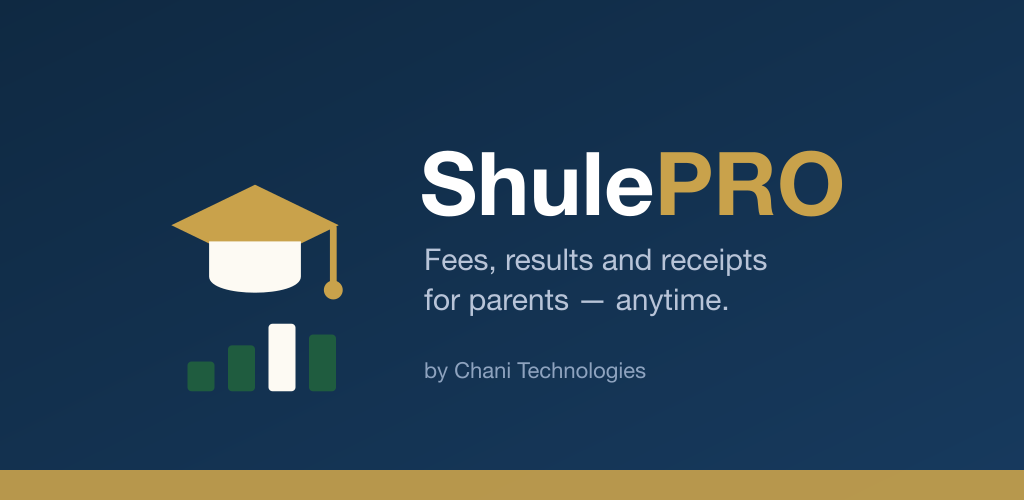
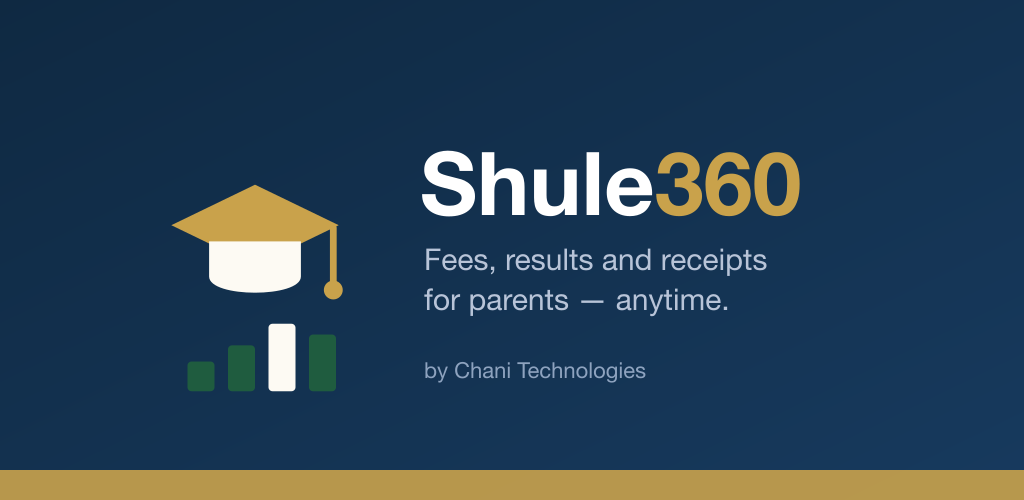
Rebuild mobile app as Shule360 v1.1 (2), regenerate feature graphic
Feature graphic wordmark updated (was baked as an image, couldn't be
covered by the text-only rename commit). Signed AAB rebuilt with the
new app_name/title already in place from the previous commit. Bumped
versionCode 1->2 since Play requires a higher version for any re-upload,
even a rename-only one. Listing doc now documents this as a follow-up
release to the existing Alpha track rather than a fresh submission.

Changed region(s): [[0.625, 0.3, 0.8438, 0.45]]

diff --git a/mobile/PLAY_STORE_LISTING.md b/mobile/PLAY_STORE_LISTING.md
@@ -1,4 +1,4 @@
-# ShulePRO — Google Play Store submission pack
+# Shule360 — Google Play Store submission pack
 
 Everything below is copy-paste ready for the Play Console.
 
@@ -8,7 +8,7 @@ Everything below is copy-paste ready for the Play Console.
 
 | Field | Value |
 |---|---|
-| App name (30 chars max) | `ShulePRO` |
+| App name (30 chars max) | `Shule360` |
 | Default language | English (United States) |
 | App or game | **App** |
 | Free or paid | **Free** |
@@ -33,9 +33,9 @@ School management in your pocket — for parents, teachers and school staff.
 ## Full description (4000 characters max)
 
 ```
-ShulePRO brings the whole school to your pocket — for parents and for school staff.
+Shule360 brings the whole school to your pocket — for parents and for school staff.
 
-ShulePRO is the mobile app for the ShulePRO school management system used by schools in Tanzania. Sign in with the account your school gave you, and you get the part of the system that belongs to your role.
+Shule360 is the mobile app for the Shule360 school management system used by schools in Tanzania. Sign in with the account your school gave you, and you get the part of the system that belongs to your role.
 
 FOR PARENTS AND GUARDIANS
 
@@ -64,9 +64,9 @@ Parents sign in with the phone number registered at their child's school, togeth
 
 FOR SCHOOLS
 
-If your school does not use ShulePRO yet and you would like a demonstration, contact Chani Technologies on +255 713 209 535 or info@chanitech.co.tz.
+If your school does not use Shule360 yet and you would like a demonstration, contact Chani Technologies on +255 713 209 535 or info@chanitech.co.tz.
 
-ShulePRO is a product of Chani Technologies, Dar es Salaam, Tanzania.
+Shule360 is a product of Chani Technologies, Dar es Salaam, Tanzania.
 www.chanitech.co.tz
 ```
 
@@ -171,17 +171,44 @@ Answer **No** to every question about violence, sexuality, profanity, drugs, gam
 
 ---
 
-## Release steps
+## Release steps (original submission — already done)
 
 1. **Create app** — Play Console → *Create app* → fill App details table above.
 2. **Store listing** — Main store listing → short + full description, upload icon, feature graphic, screenshots.
 3. **App content** — complete every item: privacy policy, app access, ads, content rating, target audience, data safety.
-4. **Closed testing** — Testing → Closed testing → Create new release → upload
-   `mobile/android/app/build/outputs/bundle/release/app-release.aab`.
-   - Release name: `1.0 (1)`
-   - Release notes: `First release of ShulePRO for parents — school fees, payment receipts and examination results.`
+4. **Closed testing** — Testing → Closed testing → Create new release → upload the AAB.
    - Create an email list of **at least 12 testers** and invite them; they must **opt in via the link and keep the app installed for 14 days**.
 5. After 14 days with 12+ opted-in testers → **Apply for production access** → Google reviews → publish to **Production**.
+
+---
+
+## Rename release: ShulePRO → Shule360 (v2 / 1.1)
+
+The app was renamed after submission to avoid a brand collision with an
+unrelated, already-operating competitor also using the name "ShulePro"
+(shulepro.com, Kenya-based, same market). The package ID
+(`tz.co.chanitech.shulepro`) is unchanged — only the display name.
+
+**Upload this update to the same Closed testing → Alpha track:**
+
+1. Testing → Closed testing → Alpha → **Create release**.
+2. Upload `mobile/android/app/build/outputs/bundle/release/app-release.aab`
+   (already rebuilt as versionCode 2 / 1.1 with the new name — or use
+   `~/Downloads/Shule360-release-v2.aab`).
+3. Release name: `1.1 (2)`
+4. Release notes:
+   `App renamed from ShulePRO to Shule360. No other changes — same login, same features.`
+5. **Save → Review release → Start rollout.** Your existing 12 opted-in
+   testers stay opted in; this does not reset the 14-day clock.
+6. **Also update the Main store listing** (separate from the release):
+   App name → `Shule360`; paste the updated short/full description from
+   this file; replace the feature graphic with the regenerated
+   `mobile/assets/feature-graphic.png` (also copied to `~/Downloads/`).
+7. **Re-take screenshots** after deploying the web-app changes to
+   production (`bash deploy.sh`) — the old screenshots show the
+   "ShulePRO" wordmark on the sign-in pages, which no longer matches.
+   Say "relaunch capture" or re-run
+   `node mobile/assets/shoot-portal-screenshots.js`.
 
 ---
 
@@ -190,8 +217,8 @@ Answer **No** to every question about violence, sexuality, profanity, drugs, gam
 Each upload needs a higher version. In `mobile/android/app/build.gradle`:
 
 ```gradle
-versionCode 2          // increment by 1 every upload
-versionName "1.1"      // human-readable
+versionCode 3          // increment by 1 every upload — 2 was used for the rename
+versionName "1.2"      // human-readable
 ```
 
 Then rebuild:
@@ -205,4 +232,4 @@ cd mobile/android && JAVA_HOME="/Applications/Android Studio.app/Contents/jbr/Co
 - `mobile/android/shulepro-release.jks`
 - `mobile/android/key.properties`
 
-Losing these means never being able to update ShulePRO on Play again.
+Losing these means never being able to update Shule360 on Play again.
